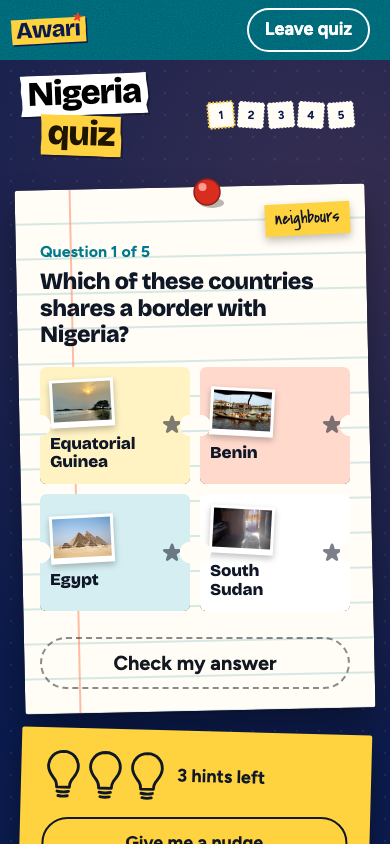
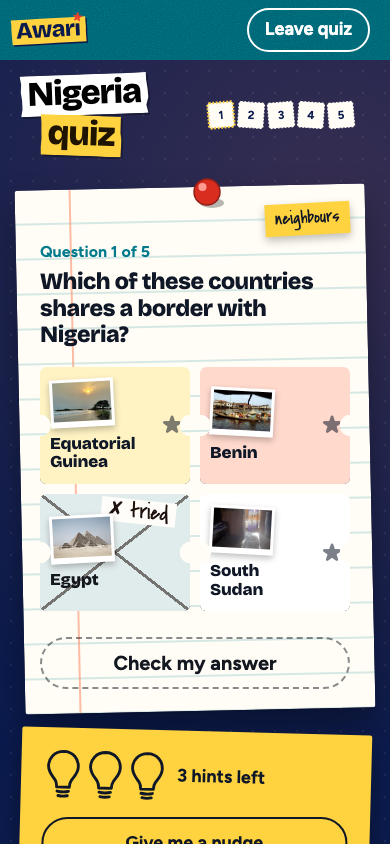
28-every-screen-like-home 1: mark the tried ticket (pencil cross, 'tried', not pickable again)

Changed region(s): [[0.1231, 0.5853, 0.4615, 0.7085], [0.1231, 0.7085, 0.1538, 0.7393]]

diff --git a/src/features/quiz/quizMachine.ts b/src/features/quiz/quizMachine.ts
@@ -17,6 +17,8 @@ export interface QuizState {
   status: Status;
   score: number;
   totalHints: number;
+  /** Options already tried and found wrong on the current question, so the card can mark them (owner feedback). */
+  tried?: number[];
 }
 
 export type Action =
@@ -34,7 +36,7 @@ export const maxHints = (q: Question): number => (isTwoWay(q) ? MAX_HINTS - 1 : 
 export const maxTries = (q: Question): number => (isTwoWay(q) ? 1 : MAX_TRIES);
 
 export function initialState(): QuizState {
-  return { index: 0, selected: null, hintsUsed: 0, tries: 0, status: 'asking', score: 0, totalHints: 0 };
+  return { index: 0, selected: null, hintsUsed: 0, tries: 0, status: 'asking', score: 0, totalHints: 0, tried: [] };
 }
 
 /** Options still on the card after the hints so far. */
@@ -52,7 +54,7 @@ export function reduce(questions: readonly Question[], s: QuizState, a: Action):
   }
   switch (a.type) {
     case 'select':
-      if (!answering(s) || !visibleOptions(q, s.hintsUsed).includes(a.option)) return s;
+      if (!answering(s) || !visibleOptions(q, s.hintsUsed).includes(a.option) || (s.tried ?? []).includes(a.option)) return s;
       return { ...s, selected: a.option };
     case 'hint': {
       if (!answering(s) || s.hintsUsed >= maxHints(q)) return s;
@@ -66,7 +68,7 @@ export function reduce(questions: readonly Question[], s: QuizState, a: Action):
         return { ...s, status: 'right', score: s.score + 1 };
       }
       const tries = s.tries + 1;
-      return { ...s, tries, status: tries >= maxTries(q) ? 'revealed' : 'wrong', selected: tries >= maxTries(q) ? s.selected : null };
+      return { ...s, tries, tried: [...(s.tried ?? []), s.selected], status: tries >= maxTries(q) ? 'revealed' : 'wrong', selected: tries >= maxTries(q) ? s.selected : null };
     }
     case 'next': {
       if (s.status !== 'right' && s.status !== 'revealed') return s;
@@ -77,6 +79,7 @@ export function reduce(questions: readonly Question[], s: QuizState, a: Action):
         selected: null,
         hintsUsed: 0,
         tries: 0,
+        tried: [],
         status: index >= questions.length ? 'done' : 'asking',
       };
     }

diff --git a/src/features/quiz/QuestionCard.tsx b/src/features/quiz/QuestionCard.tsx
@@ -154,14 +154,20 @@ export function QuestionCard({
         <div className={`question__options${isTwoWay(q) ? ' question__options--two' : ''}${pictures ? ' question__options--pictures' : ''}`}>
           {q.options.map((opt, i) =>
             visible.includes(i) ? (
-              <label key={opt} className={`question__option${s.selected === i ? ' is-selected' : ''}`}>
+              <label key={opt} className={`question__option${s.selected === i ? ' is-selected' : ''}${(s.tried ?? []).includes(i) ? ' is-tried' : ''}`}>
                 <input
                   type="radio"
                   name={groupId}
                   value={i}
                   checked={s.selected === i}
+                  disabled={(s.tried ?? []).includes(i)}
                   onChange={() => dispatch({ type: 'select', option: i })}
                 />
+                {(s.tried ?? []).includes(i) ? (
+                  <span className="question__tried hand">
+                    <span aria-hidden="true">✗ </span>tried
+                  </span>
+                ) : null}
                 {pictures ? (
                   <span aria-hidden="true" className="question__stub">
                     <SafeImg src={pictures[i] ?? ''} alt="" loading="lazy" decoding="async" />

diff --git a/src/features/quiz/tried.test.ts b/src/features/quiz/tried.test.ts
@@ -1,0 +1,30 @@
+import { describe, expect, it } from 'vitest';
+import type { Question } from '../../lib/packs/types.ts';
+import { initialState, reduce } from './quizMachine.ts';
+
+const q: Question = {
+  id: 'x/1',
+  articleId: 'x',
+  pack: 'countries',
+  prompt: 'Which?',
+  options: ['A', 'B', 'C', 'D'],
+  answer: 2,
+  hints: { nudge: 'n', whereToLook: 'w', removed: [0, 1] },
+  proof: 'C.',
+  proofSection: '',
+};
+
+describe('a tried ticket is marked and cannot be picked again (owner feedback, 18 Nov)', () => {
+  it('records the wrong pick, refuses it a second time, and clears on the next question', () => {
+    let s = reduce([q, q], initialState(), { type: 'select', option: 0 });
+    s = reduce([q, q], s, { type: 'check' });
+    expect(s.status).toBe('wrong');
+    expect(s.tried).toEqual([0]);
+    expect(reduce([q, q], s, { type: 'select', option: 0 }).selected).toBeNull();
+    s = reduce([q, q], s, { type: 'select', option: 2 });
+    s = reduce([q, q], s, { type: 'check' });
+    expect(s.status).toBe('right');
+    s = reduce([q, q], s, { type: 'next' });
+    expect(s.tried).toEqual([]);
+  });
+});

diff --git a/src/features/quiz/quiz.css b/src/features/quiz/quiz.css
@@ -1234,3 +1234,27 @@
   font-weight: 700;
   border-radius: 3px;
 }
+
+/* A ticket already tried and found wrong: a pencil cross and the word "tried", and it cannot be picked again. */
+.question__option.is-tried {
+  cursor: not-allowed;
+  background-image:
+    linear-gradient(to top right, transparent calc(50% - 1.5px), rgb(46 13 0 / 0.55) calc(50% - 1.5px) calc(50% + 1.5px), transparent calc(50% + 1.5px)),
+    linear-gradient(to bottom right, transparent calc(50% - 1.5px), rgb(46 13 0 / 0.55) calc(50% - 1.5px) calc(50% + 1.5px), transparent calc(50% + 1.5px));
+  filter: saturate(0.4);
+}
+
+.question__option.is-tried::after {
+  content: '';
+}
+
+.question__tried {
+  position: absolute;
+  top: 6px;
+  right: 14px;
+  padding: 0 8px;
+  background: var(--cream);
+  color: var(--coral-ink);
+  font-size: 22px;
+  rotate: 6deg;
+}

diff --git a/docs/design-pass.md b/docs/design-pass.md
@@ -168,3 +168,6 @@ Done (19 Nov, main session), with notes:
   same continent; other subjects the same pack.
 - Phone: on the play screen the header is the logo and "Leave quiz" (the navigation and search fold away); the card and
   all four tickets fit at 390 x 844 and 360 x 740.
+- [x] (owner, 23:02 UTC) The tried ticket is marked: a pencil cross over it, a handwritten "✗ tried" tag, and it cannot be
+      picked again (`tried` in `quizMachine.ts`, test `tried.test.ts`). 1024 and 768 re-measured with
+      `layout-stable.ts`: no movement, no overlap, "Not quite" on a cream slip at every width.
